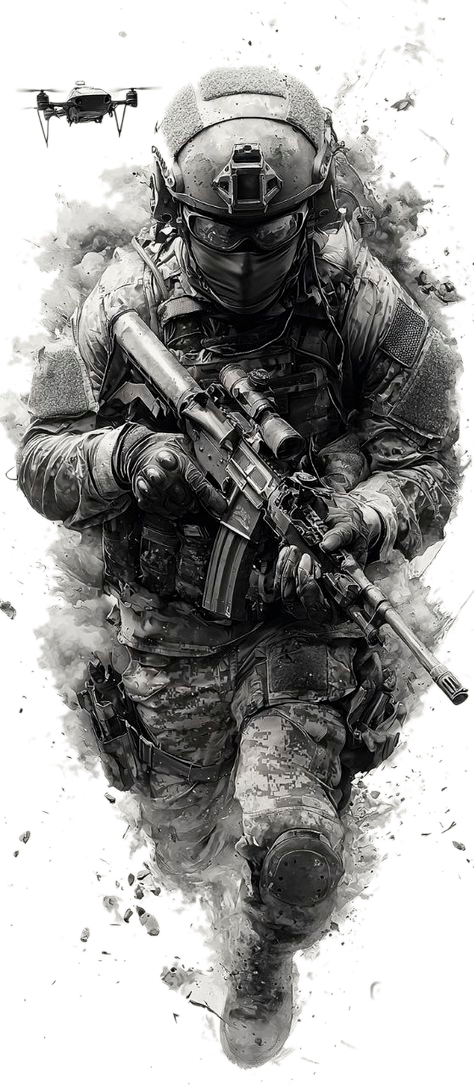
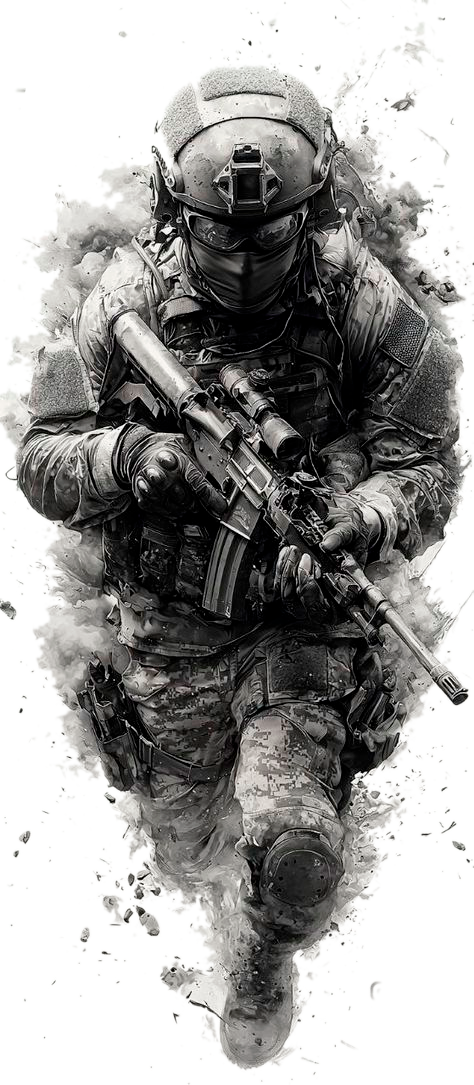
hover animation added

Changed region(s): [[0.0591, 0.0608, 0.2954, 0.1521]]

diff --git a/src/components/page1/page1.tsx b/src/components/page1/page1.tsx
@@ -1,6 +1,46 @@
+import { useEffect, useRef } from 'react';
 import './page1.css';
 
 export function Page1() {
+    // Типизируем useRef для HTMLImageElement
+    const droneRef = useRef<HTMLImageElement>(null);
+
+    useEffect(() => {
+        if ('ontouchstart' in window) return;
+        let animationFrameId: number;
+
+        const handleMouseMove = (event: MouseEvent) => {
+            cancelAnimationFrame(animationFrameId);
+
+            animationFrameId = requestAnimationFrame(() => {
+                const drone = droneRef.current;
+                if (!drone) return;
+
+                const { clientX, clientY } = event;
+                const windowWidth = window.innerWidth;
+                const windowHeight = window.innerHeight;
+
+                const moveX = -(clientX / windowWidth - 0.5) * 100;
+                const moveY = -(clientY / windowHeight - 0.5) * 100;
+
+                const maxMove = 80;
+                const boundedMoveX = Math.max(-maxMove, Math.min(maxMove, moveX));
+                const boundedMoveY = Math.max(-maxMove, Math.min(maxMove, moveY));
+                const rotateZ = -(clientX / windowWidth - 0.5) * 10;
+                
+                drone.style.setProperty('--rotate-z', `${rotateZ}deg`);
+                drone.style.setProperty('--move-x', `${boundedMoveX}px`);
+                drone.style.setProperty('--move-y', `${boundedMoveY}px`);
+            });
+        };
+
+        window.addEventListener('mousemove', handleMouseMove);
+        return () => {
+            window.removeEventListener('mousemove', handleMouseMove);
+            cancelAnimationFrame(animationFrameId);
+        };
+    }, []);
+
     return (
         <div className="page1-skyline-container">
             <img
@@ -9,18 +49,21 @@ export function Page1() {
                 className="page1-skyline-background"
                 data-aos="fade-up"
                 data-aos-duration="500"
+                data-aos-once="true"
             />
             <div className="page1-skyline-content">
                 <div className="page1-skyline-left">
                     <div className="page1-skyline-logo">
                         <img
-                            src="logo/UASkyline_logo5.png" alt="Skyline"
+                            src="logo/UASkyline_logo5.png"
+                            alt="Skyline"
                             className="page1-background-image"
                             data-aos="fade-right"
                             data-aos-duration="1000"
+                            data-aos-once="true"
                         />
                     </div>
-                    <div className="page1-skyline-description" data-aos="zoom-in-up" data-aos-duration="1000">
+                    <div className="page1-skyline-description" data-aos="zoom-in-up" data-aos-duration="1000" data-aos-once="true">
                         <p>
                             Ми — український виробник дронів, що спеціалізується на створенні кастомних рішень під реальні задачі.
                             У нашій основі — власне виробництво, бойовий досвід і гнучкий підхід: кожен безпілотник проєктується
@@ -33,7 +76,7 @@ export function Page1() {
                             які одразу йдуть у поле бою та дають результат. Команда дихає одним ритмом із підрозділами,
                             розуміє фронтові потреби й знає, як реалізувати задачу у готовий продукт.
                         </p>
-                        <p className="page1-highlight" data-aos="zoom-in-up" data-aos-duration="1500">
+                        <p className="page1-highlight" data-aos="zoom-in-up" data-aos-duration="1500" data-aos-once="true">
                             Свій для своїх. Робимо те, що справді працює.
                         </p>
                     </div>
@@ -43,9 +86,16 @@ export function Page1() {
                     <img
                         src="img/verified.png"
                         alt="verified"
-                        className='page1-verified'
+                        className="page1-verified"
                         data-aos="zoom-out"
                         data-aos-duration="1500"
+                        data-aos-once="true"
+                    />
+                    <img
+                        ref={droneRef}
+                        src="img/drone-main.png"
+                        alt="drone"
+                        className="page1-drone-image"
                     />
                     <img
                         src="img/soldier-1.png"
@@ -53,6 +103,7 @@ export function Page1() {
                         className="page1-soldier-image"
                         data-aos="zoom-in-up"
                         data-aos-duration="1000"
+                        data-aos-once="true"
                     />
                 </div>
             </div>

diff --git a/src/components/page1/page1.css b/src/components/page1/page1.css
@@ -17,6 +17,29 @@
     box-sizing: border-box;
 }
 
+.page1-drone-image {
+    position: absolute;
+    top: 0;
+    left: 100px;
+    width: 250px;
+    height: auto;
+    object-fit: contain;
+    z-index: 10;
+    user-select: none;
+    -webkit-user-drag: none;
+    pointer-events: none;
+    opacity: 0.7;
+    transition: transform 0.1s linear; 
+    transform: translate(var(--move-x, 0), var(--move-y, 0)) rotate(var(--rotate-z, 0));
+    animation: hover 2s ease-in-out infinite;
+}
+
+@keyframes hover {
+    0% { transform: translate(var(--move-x, 0), calc(var(--move-y, 0) + 0px)) rotate(var(--rotate-z, 0)); }
+    50% { transform: translate(var(--move-x, 0), calc(var(--move-y, 0) + 10px)) rotate(var(--rotate-z, 0)); }
+    100% { transform: translate(var(--move-x, 0), calc(var(--move-y, 0) + 0px)) rotate(var(--rotate-z, 0)); }
+}
+
 .page1-skyline-left {
     flex: 4;
     padding-right: 20px;
@@ -196,6 +219,10 @@
 }
 
 @media (max-width: 425px) {
+    .page1-drone-image{
+        display: none;
+    }
+    
     .page1-verified {
         position: relative;
         margin-left: 50%;
